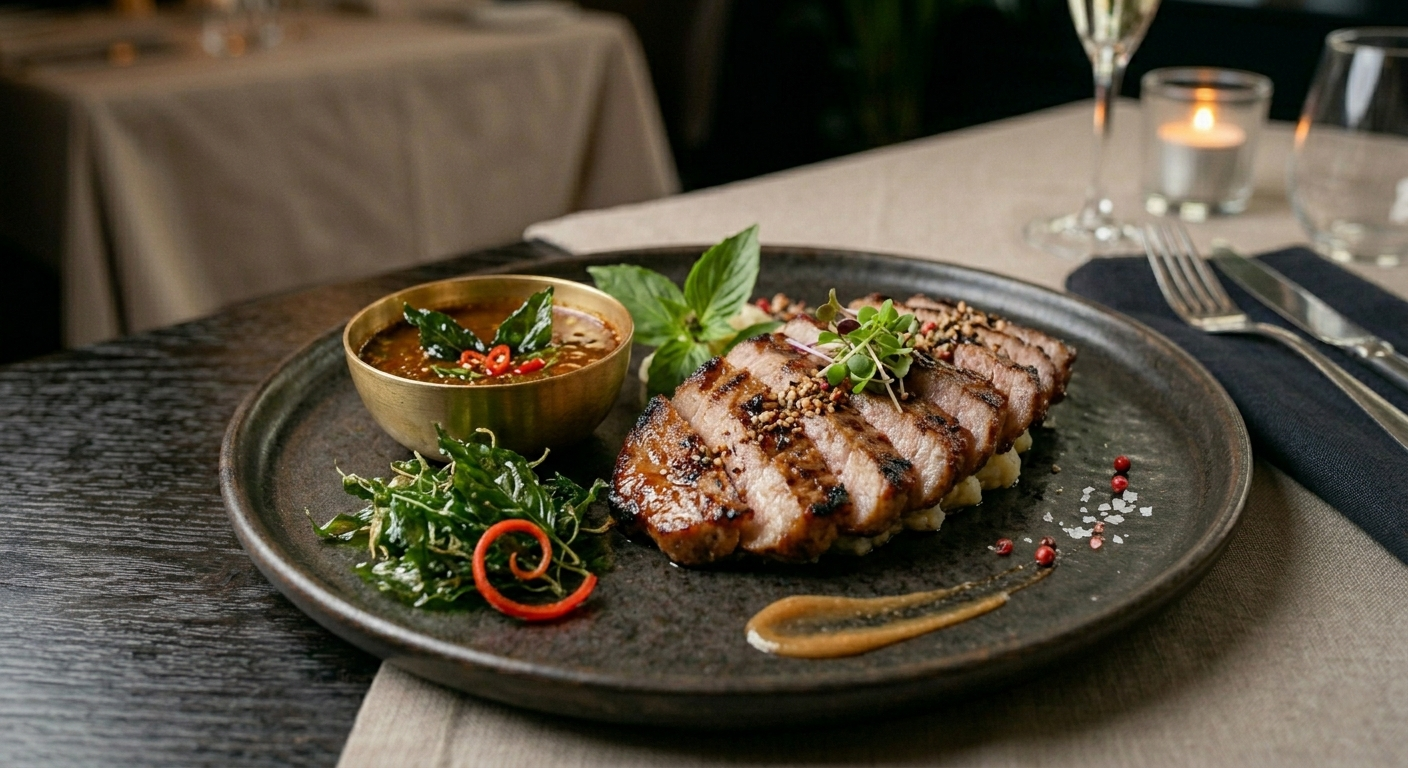
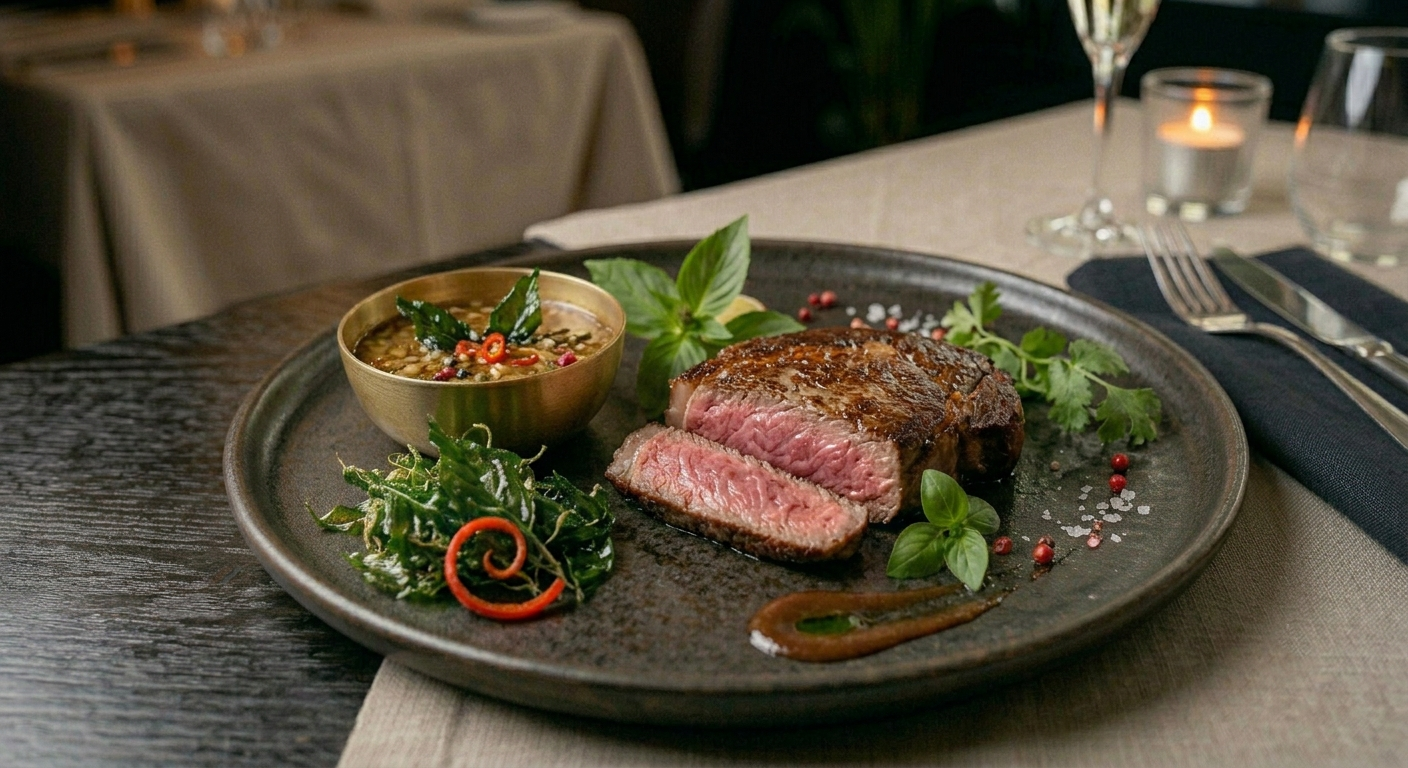
AI-photo note under meal carousel; updated beef photo

Changed region(s): [[0.0, 0.2812, 1.0, 0.9375], [0.8438, 0.125, 0.875, 0.1562], [0.125, 0.875, 0.1562, 0.9062]]

diff --git a/src/components/guest/rsvp/RsvpForm.tsx b/src/components/guest/rsvp/RsvpForm.tsx
@@ -145,6 +145,9 @@ export default function RsvpForm({
                   setError(null);
                 }}
               />
+              <p className="mt-3 text-center text-[11px] leading-relaxed text-charcoal/55">
+                Photos are AI-generated to help you visualise the dishes.
+              </p>
             </div>
 
             <div className="mt-12 flex flex-col gap-2">